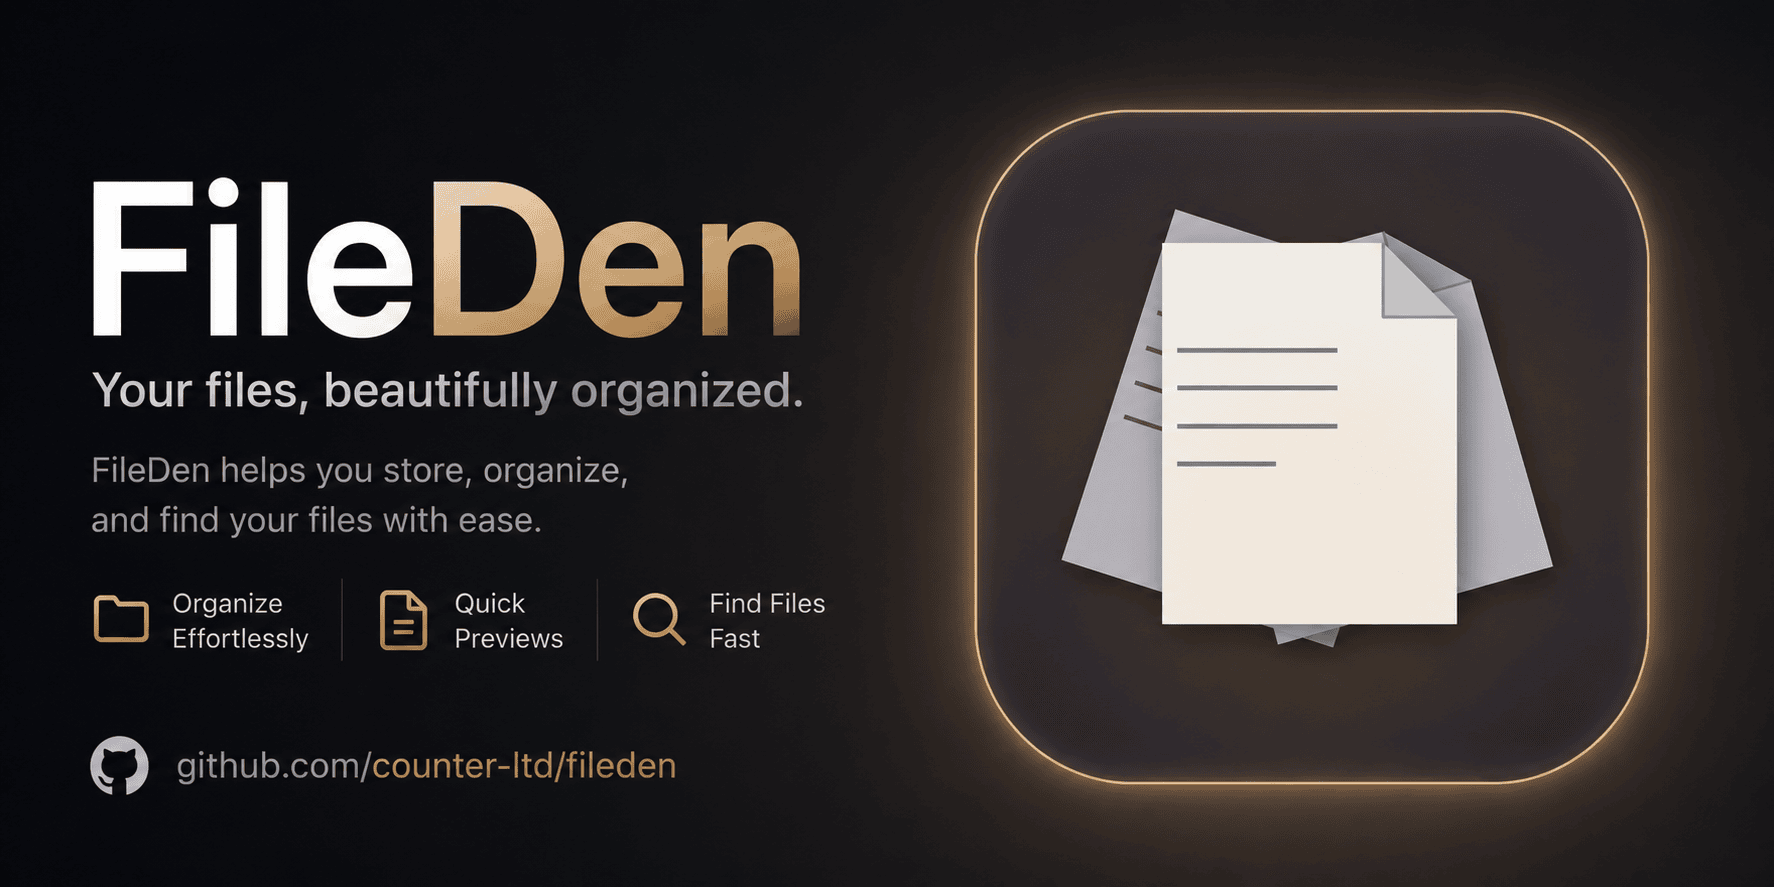
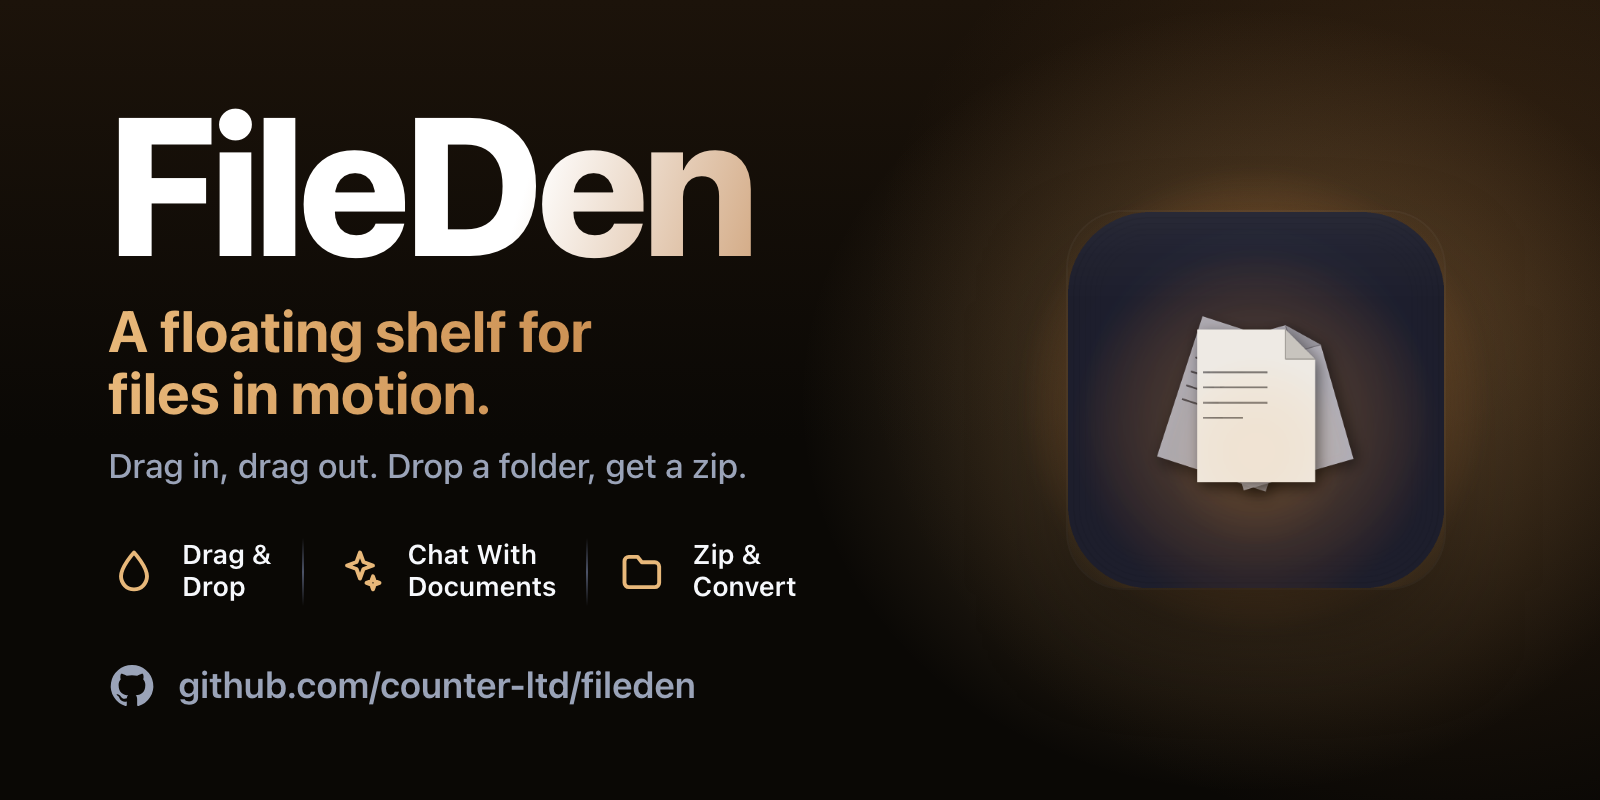
appstage wire + media

diff --git a/Sources/FileDenUI/AppStageCapture.swift b/Sources/FileDenUI/AppStageCapture.swift
@@ -1,0 +1,134 @@
+#if APPSTAGE
+import AppKit
+import SwiftUI
+import FileDenCore
+import FileDenAI
+
+// Dev tool: render one UI state on-screen for appstage to screenshot, then keep
+// running so the window can be captured. Activated by `--appstage <state>`.
+//
+// Everything is synthetic: the den holds throwaway placeholder files created in
+// an isolated temp dir (Paths is forced there in APPSTAGE builds), and the Ask
+// transcript is a pre-built conversation — the indexer and LLM never run. Real
+// files, dens, indices and notebooks are never touched. Prints one line:
+//
+//   @@APPSTAGE_READY@@ {"window":<cgWindowID>,"w":W,"h":H,"slug":"<state>"}
+//
+// This whole file is compiled out of normal/release builds.
+@MainActor
+enum AppStageCapture {
+    static let state: String? = {
+        let args = ProcessInfo.processInfo.arguments
+        if let i = args.firstIndex(of: "--appstage"), i + 1 < args.count {
+            return args[i + 1]
+        }
+        return nil
+    }()
+
+    static func run(state: String) {
+        NSApp.setActivationPolicy(.accessory)
+
+        let cornerRadius: CGFloat
+        let inner: AnyView
+        if state == "ask" {
+            let session = QASession(demoMessages: demoMessages(), fileCount: 3)
+            inner = AnyView(QAView(session: session).frame(width: 440, height: 430))
+            cornerRadius = 16
+        } else {
+            inner = AnyView(ShelfView(initialURLs: demoFiles(), initiallyExpanded: true))
+            cornerRadius = 24
+        }
+
+        // Opaque backing so the den/chat material doesn't sample the desktop;
+        // clipped to a rounded card; the window itself is transparent and sized
+        // tight, so the capture is just the app's UI with transparent surround.
+        let root = inner
+            .background(Color(nsColor: .windowBackgroundColor))
+            .clipShape(RoundedRectangle(cornerRadius: cornerRadius, style: .continuous))
+            .environment(\.colorScheme, .dark)
+
+        let host = NSHostingController(rootView: root)
+        let window = CaptureWindow(
+            contentRect: NSRect(x: 0, y: 0, width: 360, height: 420),
+            styleMask: [.borderless],
+            backing: .buffered,
+            defer: false
+        )
+        window.isOpaque = false
+        window.backgroundColor = .clear
+        window.hasShadow = false
+        window.level = .floating
+        window.contentViewController = host
+        window.center()
+        window.makeKeyAndOrderFront(nil)
+        NSApp.activate(ignoringOtherApps: true)
+
+        // ShelfView expands in onAppear, so re-measure and size the window to the
+        // settled content before reporting.
+        DispatchQueue.main.asyncAfter(deadline: .now() + 0.7) {
+            host.view.layoutSubtreeIfNeeded()
+            let fit = host.view.fittingSize
+            if fit.width > 80 && fit.height > 80 {
+                window.setContentSize(fit)
+                window.center()
+            }
+            NSApp.activate(ignoringOtherApps: true)
+            window.makeKeyAndOrderFront(nil)
+
+            DispatchQueue.main.asyncAfter(deadline: .now() + 0.35) {
+                let f = window.frame
+                print(
+                    "@@APPSTAGE_READY@@ {\"window\":\(window.windowNumber),"
+                    + "\"w\":\(Int(f.width)),\"h\":\(Int(f.height)),\"slug\":\"\(state)\"}"
+                )
+                fflush(stdout)
+            }
+        }
+    }
+
+    // Throwaway placeholder files (real, empty) so the den shows proper type
+    // icons via NSWorkspace without referencing any of the user's files.
+    private static func demoFiles() -> [URL] {
+        let dir = Paths.appSupport.appendingPathComponent("DemoFiles", isDirectory: true)
+        try? FileManager.default.createDirectory(at: dir, withIntermediateDirectories: true)
+        let names = [
+            "Q3 Report.pdf", "Brand Moodboard.png", "Contract.docx",
+            "Release Notes.md", "assets.zip",
+        ]
+        return names.map { name in
+            let url = dir.appendingPathComponent(name)
+            if !FileManager.default.fileExists(atPath: url.path) {
+                FileManager.default.createFile(atPath: url.path, contents: Data())
+            }
+            return url
+        }
+    }
+
+    // A pre-built, grounded answer with a citation — no indexer, no LLM.
+    private static func demoMessages() -> [ChatMessage] {
+        let docURL = Paths.appSupport
+            .appendingPathComponent("DemoFiles/Q3 Report.pdf")
+        let chunk = Chunk(
+            sourceURL: docURL,
+            ordinal: 2,
+            text: "Revenue grew 24% quarter-over-quarter, driven mainly by enterprise renewals and the launch of the EU region.",
+            locator: .pdfPage(index: 2, charRange: nil)
+        )
+        let citation = Citation(id: 1, chunk: StoredChunk(id: 1, chunk: chunk), score: 0.95)
+        return [
+            ChatMessage(role: .user, text: "What drove the revenue increase this quarter?"),
+            ChatMessage(
+                role: .assistant,
+                text: "Revenue grew 24% quarter-over-quarter, driven mainly by enterprise renewals and the new EU region launch.",
+                citations: [citation],
+                isStreaming: false
+            ),
+        ]
+    }
+}
+
+private final class CaptureWindow: NSWindow {
+    override var canBecomeKey: Bool { true }
+    override var canBecomeMain: Bool { false }
+}
+#endif

diff --git a/Sources/FileDenCore/Paths.swift b/Sources/FileDenCore/Paths.swift
@@ -9,6 +9,24 @@ import Foundation
 /// (Settings and the recents list still live in `UserDefaults`; this is the home
 /// for actual files the app produces.)
 public enum Paths {
+#if APPSTAGE
+    /// Capture-only build (appstage screenshots). Storage is forced to a
+    /// throwaway directory so a capture run never reads or writes the user's real
+    /// files, indices, or notebooks. Compiled out of normal/release builds.
+    public static let appSupport: URL = {
+        let fm = FileManager.default
+        let dir: URL
+        if let override = ProcessInfo.processInfo.environment["FILEDEN_STATE_DIR"],
+           !override.isEmpty {
+            dir = URL(fileURLWithPath: override, isDirectory: true)
+        } else {
+            dir = URL(fileURLWithPath: NSTemporaryDirectory(), isDirectory: true)
+                .appendingPathComponent("fileden-appstage", isDirectory: true)
+        }
+        try? fm.createDirectory(at: dir, withIntermediateDirectories: true)
+        return dir
+    }()
+#else
     /// The app's storage root. Created on first access.
     public static let appSupport: URL = {
         let base = FileManager.default
@@ -17,6 +35,7 @@ public enum Paths {
         try? FileManager.default.createDirectory(at: base, withIntermediateDirectories: true)
         return base
     }()
+#endif
 
     /// Scratch space for files produced by tools (PDF ops, conversions, archives)
     /// before the user files them away. It lives under the app root rather than

diff --git a/Sources/FileDenUI/AppDelegate.swift b/Sources/FileDenUI/AppDelegate.swift
@@ -10,6 +10,11 @@ public class AppDelegate: NSObject, NSApplicationDelegate {
     private var instanceLockFD: Int32 = -1
 
     public func applicationWillFinishLaunching(_ notification: Notification) {
+        // appstage capture builds skip the single-instance lock so they can run
+        // alongside a real FileDen. Compiled out of normal/release builds.
+        #if APPSTAGE
+        if AppStageCapture.state != nil { return }
+        #endif
         // Single instance only. A file lock is the race-safe source of truth:
         // `flock` is atomic, so exactly one process can hold it — two launches
         // racing at the same instant can't both bow out (a symmetric "is another
@@ -49,6 +54,15 @@ public class AppDelegate: NSObject, NSApplicationDelegate {
     }
 
     public func applicationDidFinishLaunching(_ notification: Notification) {
+        // appstage screenshot mode: render one state on-screen (synthetic den /
+        // chat) and wait to be captured. Skips the status item and all live
+        // services. Compiled in only for capture builds (-DAPPSTAGE).
+        #if APPSTAGE
+        if let state = AppStageCapture.state {
+            AppStageCapture.run(state: state)
+            return
+        }
+        #endif
         // Clear any staging left over from a previous session before any tool
         // writes new output. Safe here: the instance lock means we're the only
         // FileDen running, so nothing is mid-operation.

diff --git a/Sources/FileDenUI/Views/QASession.swift b/Sources/FileDenUI/Views/QASession.swift
@@ -32,6 +32,17 @@ final class QASession: ObservableObject {
         startIndexing()
     }
 
+#if APPSTAGE
+    /// Capture-only: a ready session with a pre-built transcript, no indexing or
+    /// LLM. Compiled out of normal/release builds.
+    init(demoMessages: [ChatMessage], fileCount: Int) {
+        self.urls = []
+        self.fileCount = fileCount
+        self.messages = demoMessages
+        self.phase = .ready
+    }
+#endif
+
     var hasMessages: Bool { !messages.isEmpty }
 
     var modelLabel: String {

diff --git a/Sources/FileDenUI/Views/ShelfView.swift b/Sources/FileDenUI/Views/ShelfView.swift
@@ -29,6 +29,8 @@ struct ShelfView: View {
     /// window controller can make the panel key for text input.
     var onAskModeChanged: ((Bool) -> Void)? = nil
     var initialURLs: [URL] = []
+    /// Open in the expanded grid immediately (used for screenshots).
+    var initiallyExpanded: Bool = false
 
     @Environment(\.colorScheme) private var colorScheme
     @ObservedObject private var settings = FileDenSettings.shared
@@ -126,6 +128,7 @@ struct ShelfView: View {
             if items.isEmpty && !initialURLs.isEmpty {
                 items = initialURLs.map { ShelfItem(url: $0) }
             }
+            if initiallyExpanded { isExpanded = true }
             onEmpty? {
                 if !items.isEmpty {
                     RecentDensStore.shared.record(urls: items.map(\.url))

diff --git a/README.md b/README.md
@@ -28,6 +28,14 @@
 
 ---
 
+## Screenshots
+
+<div align="center">
+<img src="Resources/screenshots/shelf-framed.png" width="320" alt="A den of stashed files"> <img src="Resources/screenshots/ask-framed.png" width="320" alt="Ask — chat with your documents">
+</div>
+
+---
+
 ## What it is
 
 FileDen is a tiny floating window — a "den" — that holds files while you move them between apps, archives, uploads, and conversations. Drag in. Drag out. Drop a folder, get a zip. Shake your mouse, get a fresh den near the cursor. Hit a hotkey, same. Close it, the contents go to recents.